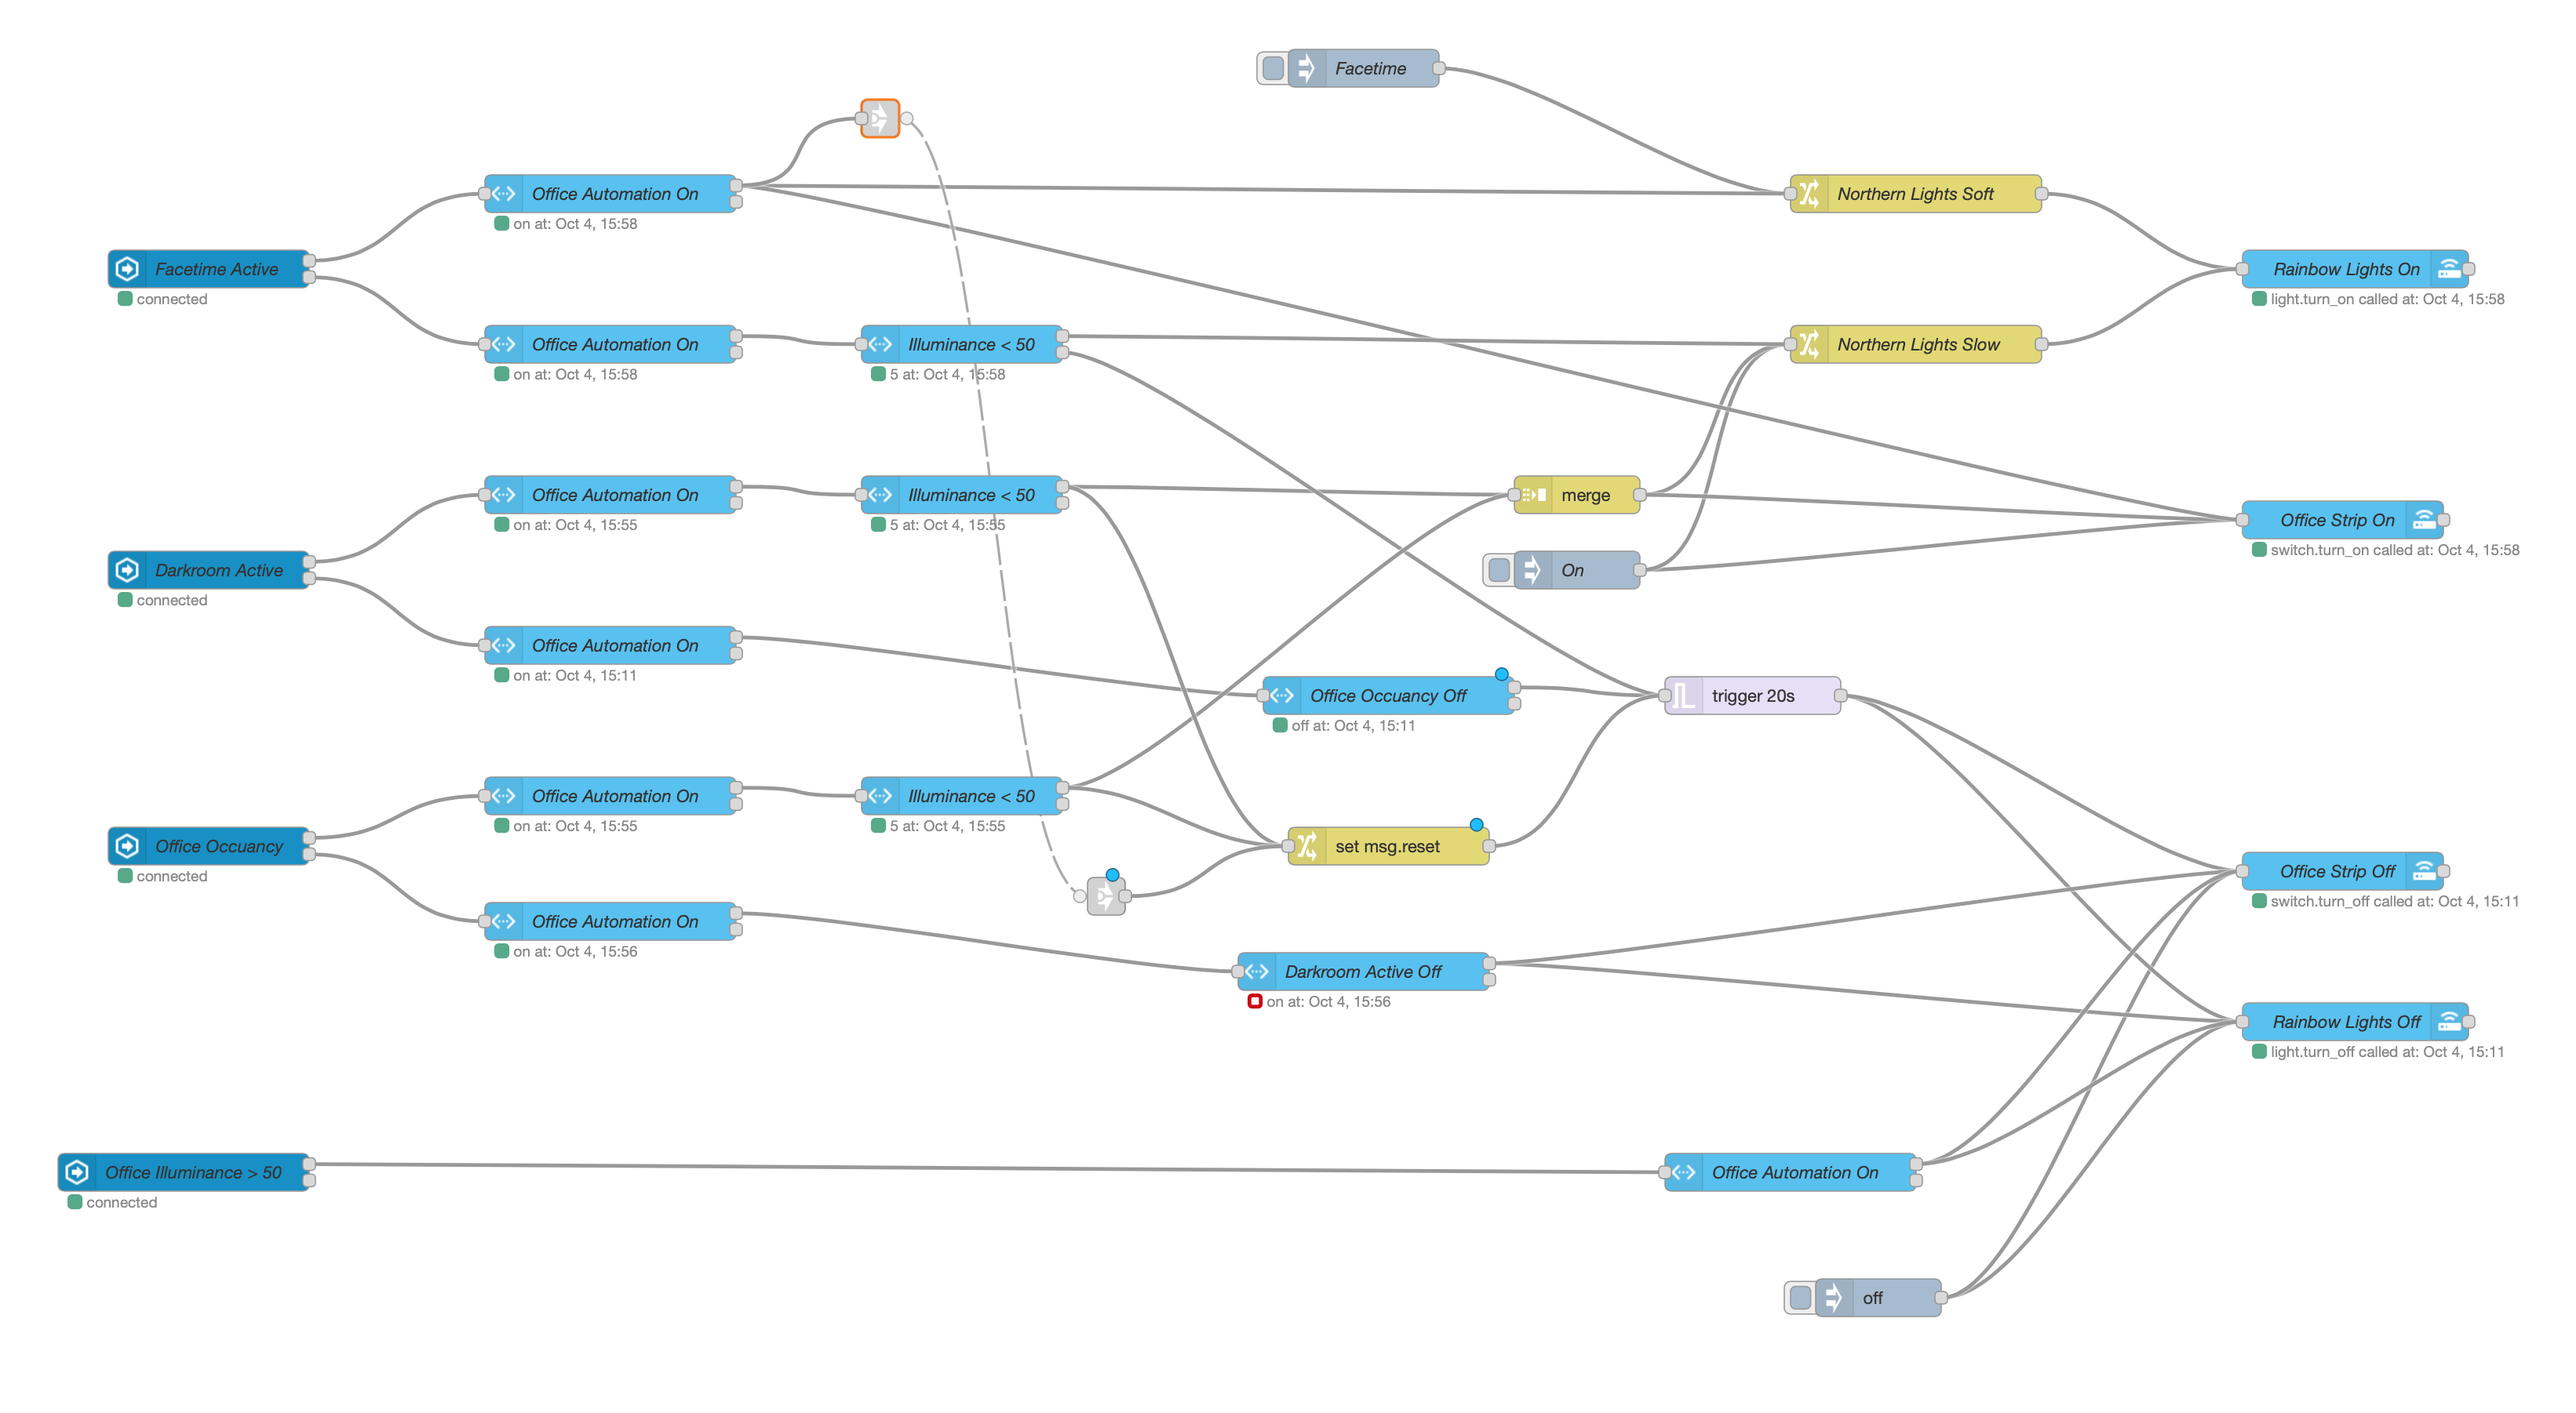
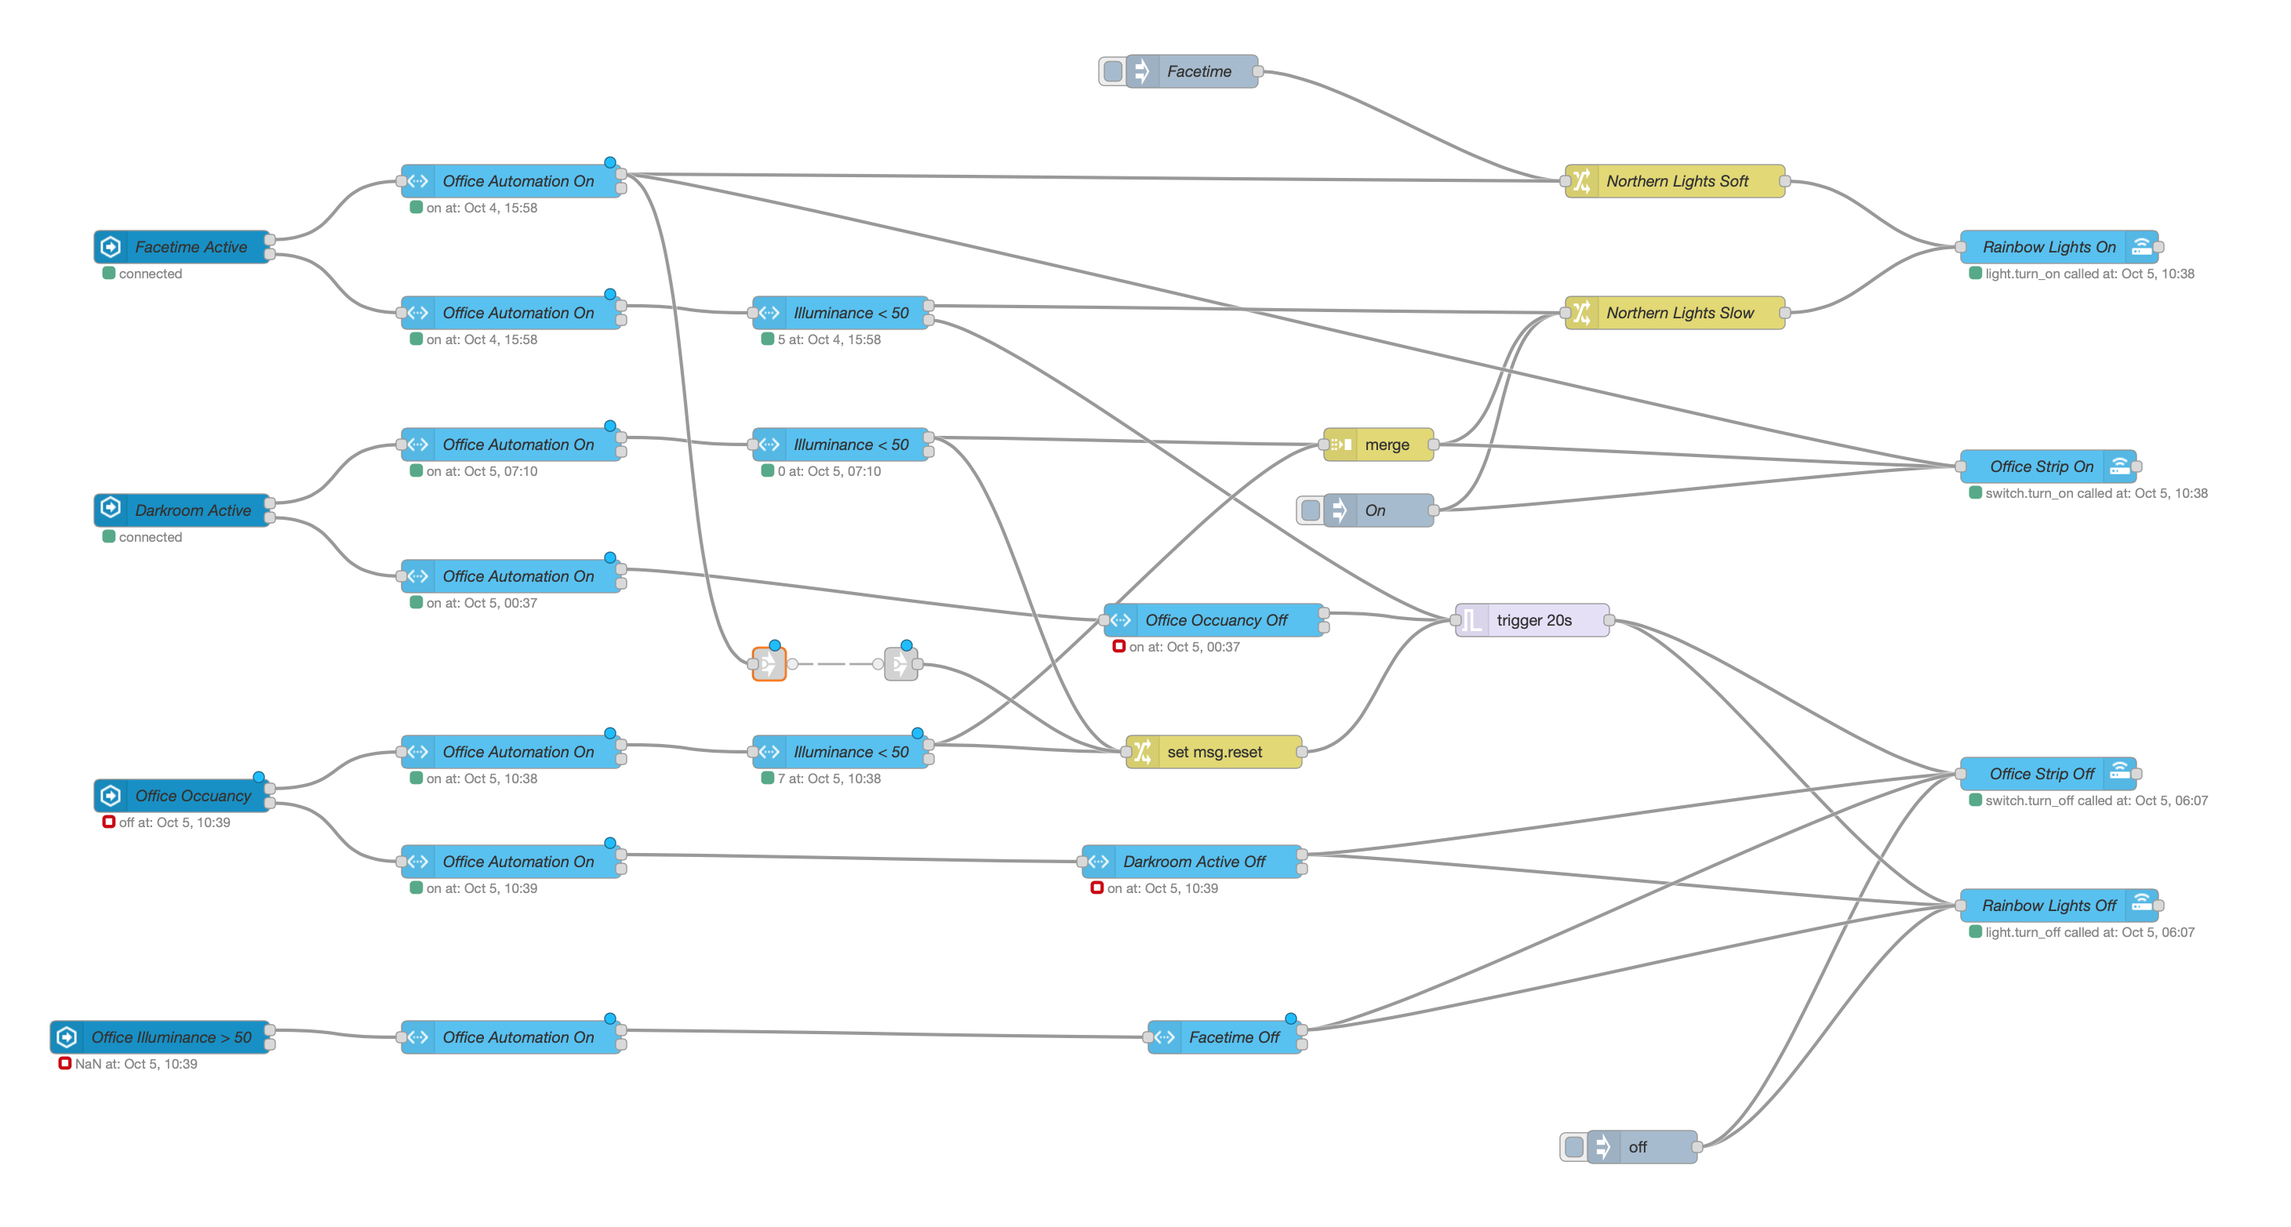
Don't turn off light during facetime if the lux go of 50

diff --git a/NodeRed/README.md b/NodeRed/README.md
@@ -34,6 +34,7 @@ In the case of usage of my webcam (Zoom, Skype,..), my Aurora light is less satu
 - [x] Add an input boolean for turn off automation from HA, HomeKit and Siri
 - [x] Add illumination to the automation. If illumination is over 50 lux, the light isn't turn on
 - [ ] Control an On-Air light outside of the office base mic usage on the computer
+- [ ] Add variable for set illumination trigger value
 
 Insert in the configuration.yaml
 ```yml
